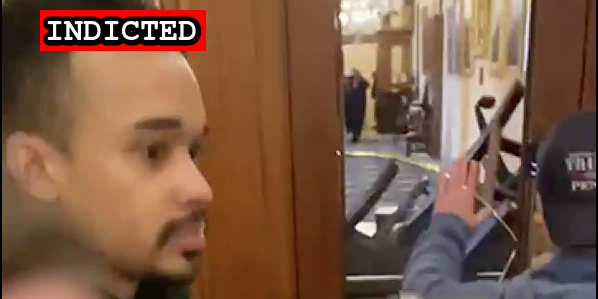
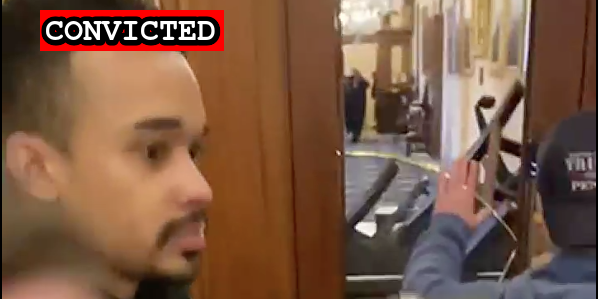
Smocks plea

Changed region(s): [[0.0602, 0.0301, 0.3913, 0.1806]]

diff --git a/docs/_suspects/troy-smocks.md b/docs/_suspects/troy-smocks.md
@@ -4,15 +4,15 @@ lastName: Smocks
 hashtag:
 aka: ColonelTPerez
 residence: Texas
-status: Indicted
+status: Convicted
 date: 2021-01-15
 charged: 2021-01-15
 indicted: 2021-03-09
-convicted: 
-sentenced: 
-dismissed: 
+convicted: 2021-09-29
+sentenced:
+dismissed:
 deceased:
-plea_hearing:
+plea_hearing: 2021-09-29
 sentencing:
 age: 58
 occupation:
@@ -25,7 +25,7 @@ courtroom:
 courthouse:
 raid:
 perpwalk:
-quote: 'We will come in numbers that no standing army or police agency can match.'
+quote: "We will come in numbers that no standing army or police agency can match."
 title: Troy Smocks charged on January 15, 2021
 description: Click for latest case details. Suspects innocent until proven guilty.
 author: seditiontrack
@@ -34,8 +34,13 @@ published: true
 caseNumber: 1:21-cr-198
 videos:
 charges:
+  - code: "18 USC § 875(c)"
+    title: "Interstate Communication of Threats"
+    url: "https://www.law.cornell.edu/uscode/text/18/875"
+    felony: true
 sentence:
 ---
+
 - [News Report](https://dfw.cbslocal.com/2021/01/19/capitol-rioter-dallas-troy-smocks-plans-return-dc-inauguration-day/)
 - [DOJ Press Release](https://www.justice.gov/usao-dc/pr/texas-man-arrested-and-charged-making-threats-regarding-events-us-capitol)
 - [Complaint](https://www.justice.gov/opa/page/file/1355891/download)
